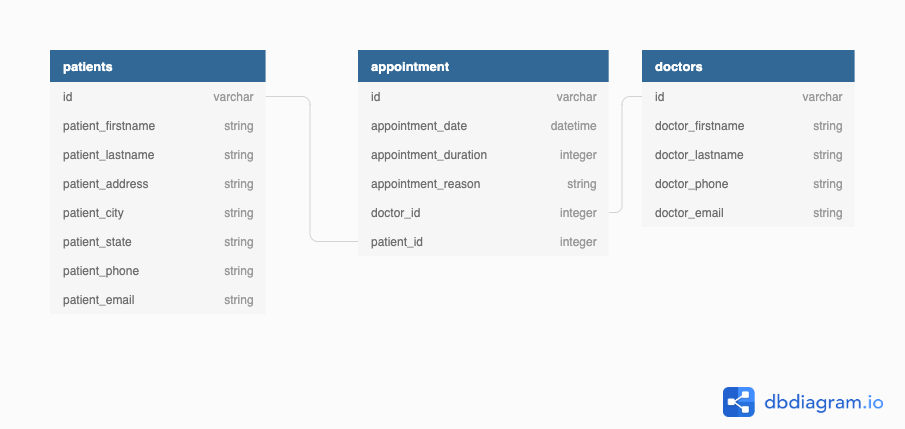
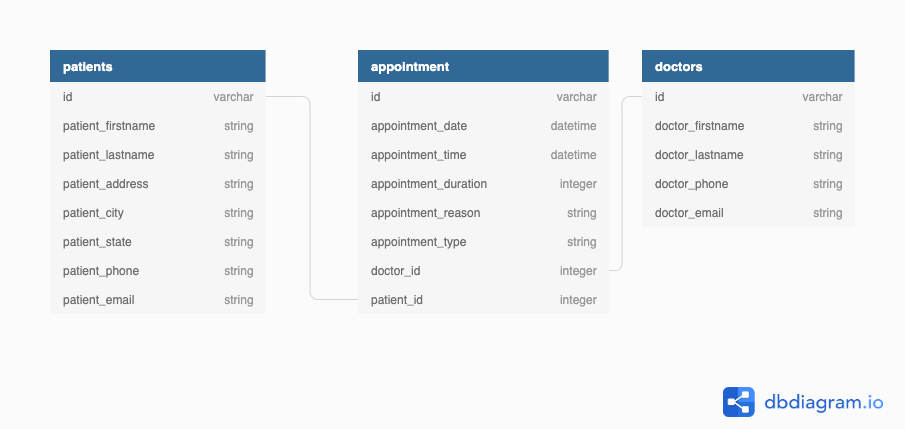
Added appointment_time and appointment_type to table

diff --git a/db/migrate/20220415214424_create_appointments.rb b/db/migrate/20220415214424_create_appointments.rb
@@ -1,10 +1,12 @@
 class CreateAppointments < ActiveRecord::Migration[6.1]
   def change
     create_table :appointments do |t|
-      t.datetime :appointment_date 
-      t.integer :appointment_duration 
-      t.string :appointment_reason 
-      t.integer :doctor_id 
+      t.datetime :appointment_date
+      t.datetime :appointment_time
+      t.integer :appointment_duration
+      t.string :appointment_reason
+      t.string :appointment_type
+      t.integer :doctor_id
       t.integer :patient_id
       t.timestamps
     end

diff --git a/db/schema.rb b/db/schema.rb
@@ -14,8 +14,10 @@ ActiveRecord::Schema.define(version: 2022_04_15_214424) do
 
   create_table "appointments", force: :cascade do |t|
     t.datetime "appointment_date"
+    t.datetime "appointment_time"
     t.integer "appointment_duration"
     t.string "appointment_reason"
+    t.string "appointment_type"
     t.integer "doctor_id"
     t.integer "patient_id"
     t.datetime "created_at", precision: 6, null: false

diff --git a/app/controllers/application_controller.rb b/app/controllers/application_controller.rb
@@ -1,9 +1,8 @@
 class ApplicationController < Sinatra::Base
-  set :default_content_type, 'application/json'
-  
+  set :default_content_type, "application/json"
+
   # Add your routes here
   get "/" do
     { message: "Good luck with your project!" }.to_json
   end
-
 end

diff --git a/app/models/patient.rb b/app/models/patient.rb
@@ -1,3 +1,2 @@
 class Patient < ActiveRecord::Base
-
 end

diff --git a/README.md b/README.md
@@ -5,8 +5,8 @@
 
 ## TODO:
 - [ ] Make Seeds
-- [ ] Task 2
-- [ ] Task 3
+- [ ] Write methods in the Models (patient.rb, appointment.rb, and doctor.rb)
+- [ ] Write routes in the Controller (application_controller.rb)
 - [ ] Task 4
 - [ ] Task 5
 
